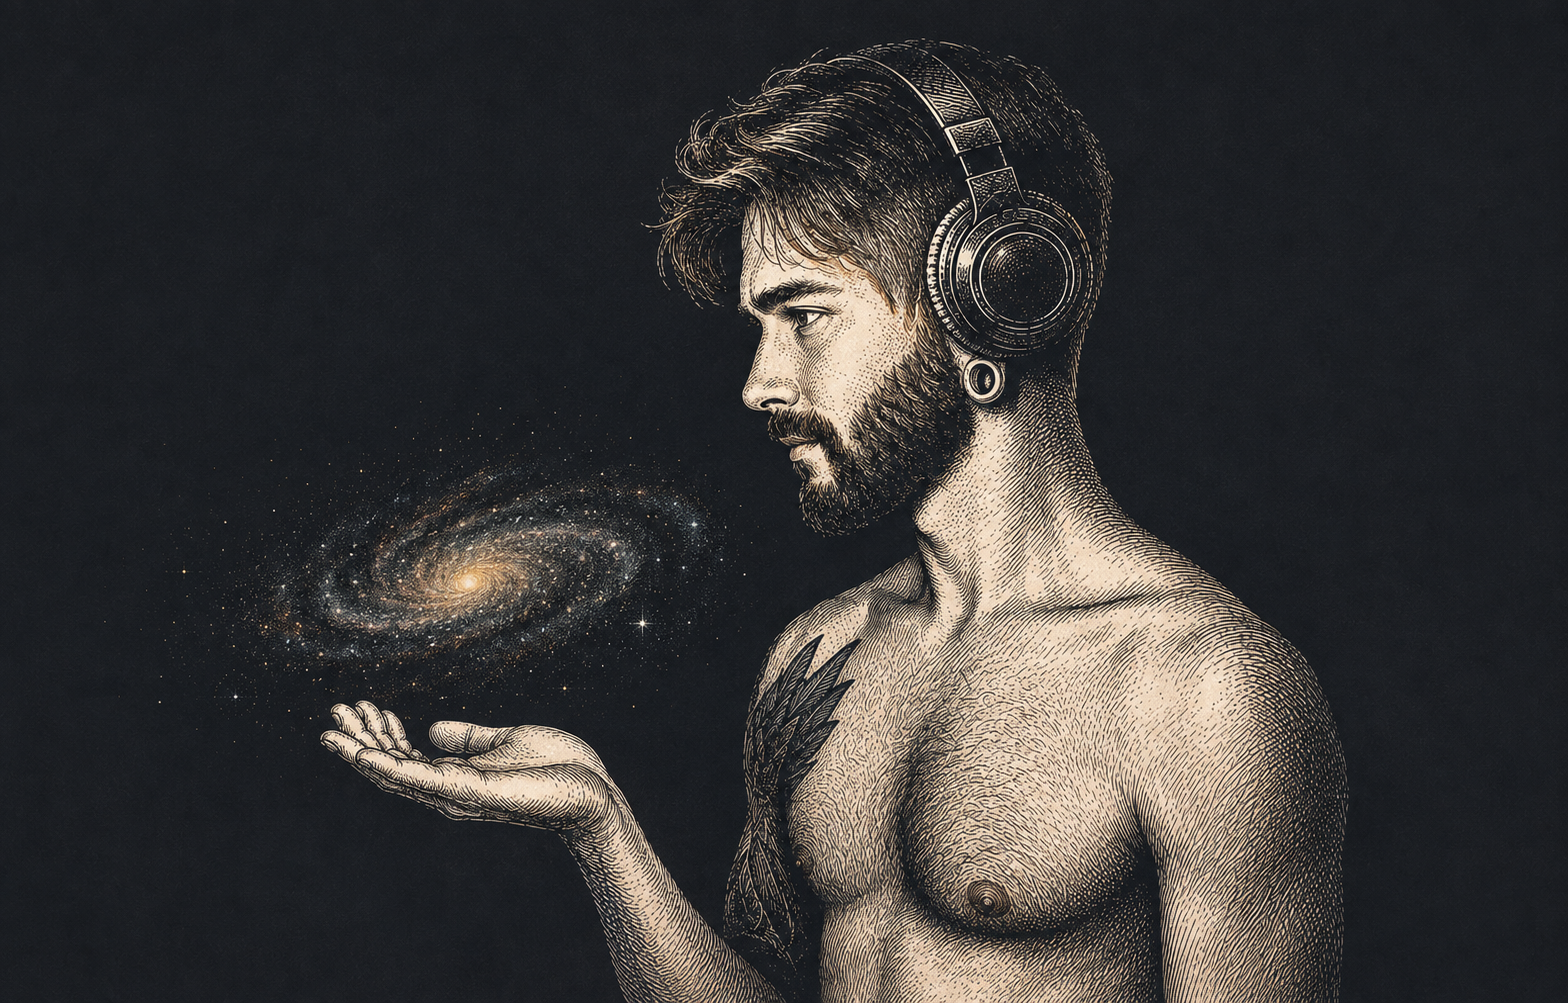
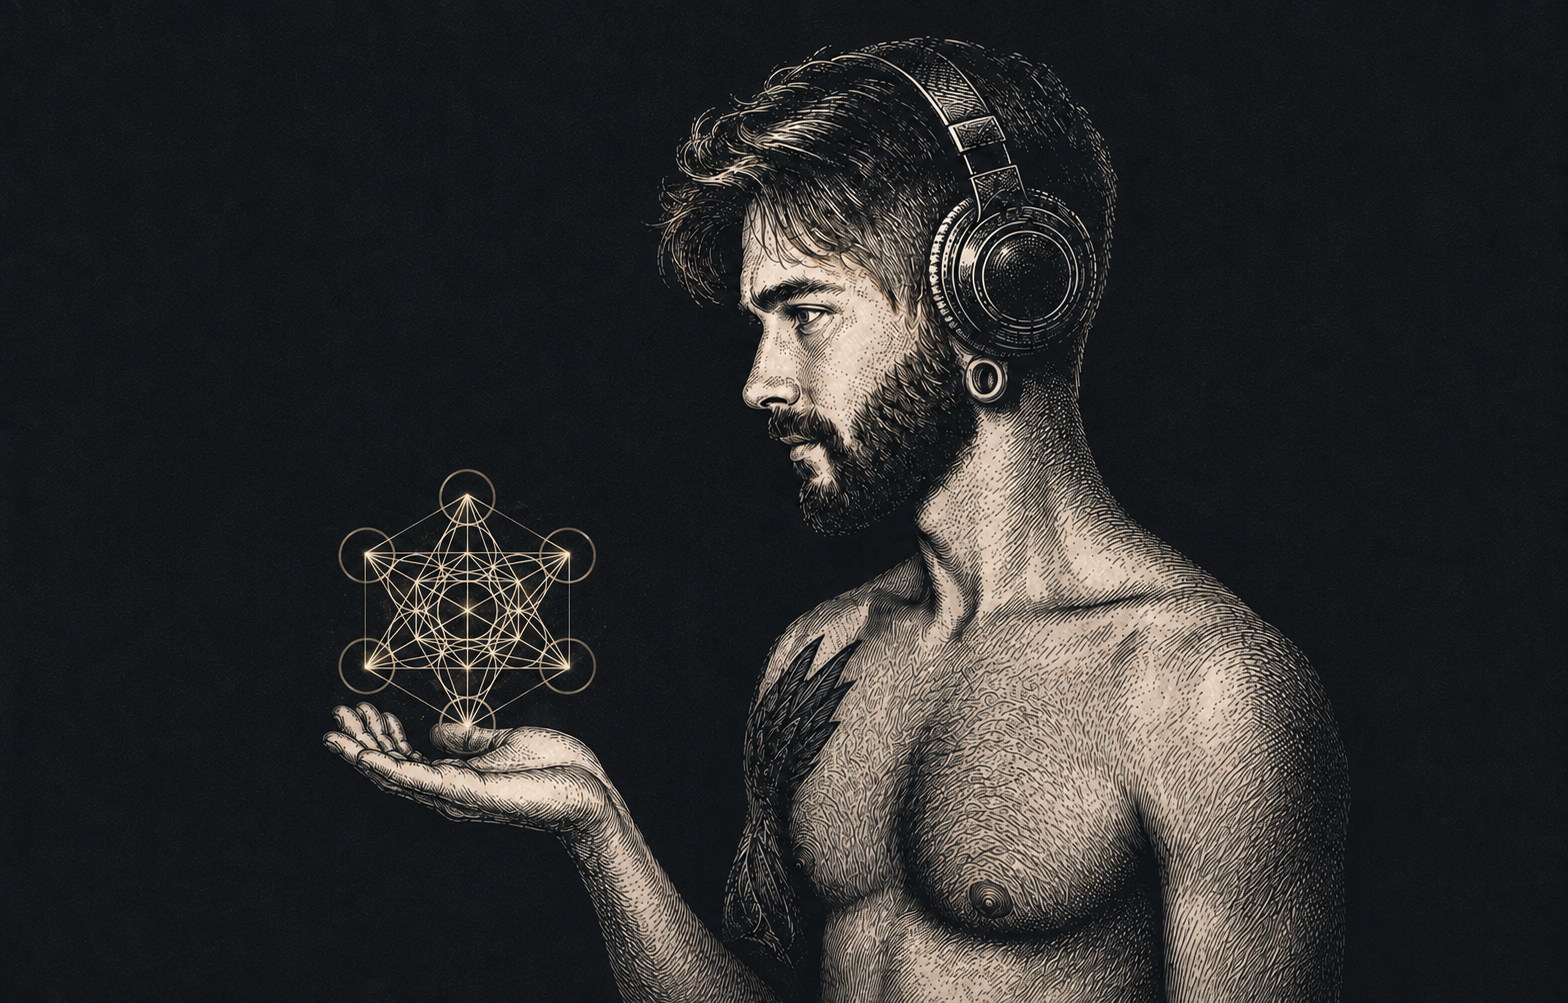
docs

Changed region(s): [[0.1562, 0.0309, 0.875, 1.0], [0.4062, 0.6181, 0.4375, 0.6491]]

diff --git a/components/sections/Hero.tsx b/components/sections/Hero.tsx
@@ -10,33 +10,44 @@ export function Hero() {
   return (
     <section className="relative min-h-[calc(100vh-80px)] w-full flex flex-col md:flex-row border-b-hairline">
       {/* Left Column: Text & Data */}
-      <div className="w-full md:w-1/2 flex flex-col justify-center p-6 sm:p-8 md:p-16 md:border-r-hairline border-white/10 relative">
+      <div className="w-full md:w-1/2 flex flex-col p-6 sm:p-8 md:p-16 md:border-r-hairline border-white/10 relative order-1">
         {/* Top-left metadata */}
-        <div className="md:absolute top-8 left-8 text-xs font-mono uppercase tracking-widest text-[var(--color-accent-subtle)] mb-8 md:mb-0 hidden md:block">
+        <div className="md:absolute top-8 left-8 text-xs font-mono uppercase tracking-widest text-[var(--color-accent-subtle)] mb-8 md:mb-0 hidden md:block text-center md:text-left">
           [ {t('hero.badge')} ]
         </div>
-        <div className="text-xs font-mono uppercase tracking-widest text-[var(--color-accent-subtle)] mb-8 md:hidden">
+        <div className="text-xs font-mono uppercase tracking-widest text-[var(--color-accent-subtle)] mb-8 md:hidden text-center">
           [ {t('hero.badge')} ]
         </div>
 
-        <div className="mt-4 md:mt-12 flex-1 flex flex-col justify-center">
-          <h1 className="text-5xl sm:text-6xl md:text-8xl font-serif leading-none tracking-tight mb-6 sm:mb-8 text-[var(--color-offwhite)] uppercase">
-            {t('hero.title').split(' ').map((word, i) => (
-              <span key={i} className="block">{word}</span>
-            ))}
+        <div className="mt-2 md:mt-12 flex-1 flex flex-col justify-center items-center md:items-start text-center md:text-left">
+          <h1 className="text-4xl sm:text-5xl md:text-6xl lg:text-6xl xl:text-7xl font-serif leading-none tracking-tight mb-6 sm:mb-8 text-[var(--color-offwhite)] uppercase w-full break-normal whitespace-pre-line">
+            {t('hero.title')}
           </h1>
 
-          <p className="font-mono text-xs sm:text-sm md:text-base text-gray-400 max-w-md mb-8 sm:mb-12 uppercase leading-relaxed">
+          <p className="font-mono text-xs sm:text-sm md:text-base text-[var(--color-mid-tone)] max-w-md mb-8 sm:mb-12 uppercase leading-relaxed">
             {t('hero.description')}
           </p>
 
-          <div className="flex flex-col sm:flex-row gap-4 mb-8 md:mb-0">
-            <Link href="#projects" className="focus:outline-none">
-              <TerminalButton>{t('hero.viewProjects')}</TerminalButton>
+          {/* MOBILE IMAGE INSERTION */}
+          <div className="md:hidden w-full relative aspect-square max-h-[500px] bg-[var(--color-charcoal)] border border-[var(--color-ink)] p-2 mb-8 mx-auto max-w-sm">
+            <div
+              className="w-full h-full bg-contain bg-center bg-no-repeat"
+              style={{ backgroundImage: 'url("/hero_metatron.png")' }}
+            />
+            {/* Corner accents */}
+            <div className="absolute top-0 left-0 w-2 h-2 border-t border-l border-[var(--color-accent-warm)]" />
+            <div className="absolute top-0 right-0 w-2 h-2 border-t border-r border-[var(--color-accent-warm)]" />
+            <div className="absolute bottom-0 left-0 w-2 h-2 border-b border-l border-[var(--color-accent-warm)]" />
+            <div className="absolute bottom-0 right-0 w-2 h-2 border-b border-r border-[var(--color-accent-warm)]" />
+          </div>
+
+          <div className="flex flex-col sm:flex-row justify-center md:justify-start gap-4 mb-12 md:mb-0 w-full sm:w-auto">
+            <Link href="#projects" className="focus:outline-none w-full sm:w-auto">
+              <TerminalButton className="w-full sm:w-auto">{t('hero.viewProjects')}</TerminalButton>
             </Link>
             
-            <Link href="#contact" className="focus:outline-none">
-              <TerminalButton className="border-transparent underline underline-offset-4 hover:border-[var(--color-offwhite)]">
+            <Link href="#contact" className="focus:outline-none w-full sm:w-auto">
+              <TerminalButton className="border-transparent underline underline-offset-4 hover:border-[var(--color-offwhite)] w-full sm:w-auto">
                 {t('hero.contactMe')}
               </TerminalButton>
             </Link>
@@ -44,27 +55,27 @@ export function Hero() {
         </div>
 
         {/* Bottom-left metadata */}
-        <div className="mt-8 md:mt-0 md:absolute bottom-8 left-8 text-[9px] sm:text-[10px] font-mono uppercase tracking-widest text-gray-500 flex flex-col gap-1">
+        <div className="mt-auto md:absolute bottom-8 left-8 text-[9px] sm:text-[10px] font-mono uppercase tracking-widest text-[var(--color-accent-subtle)] flex flex-col gap-1 items-center md:items-start pb-4 md:pb-0">
           <span>LAT: -34.6037</span>
           <span>LNG: -58.3816</span>
           <span>SYS_VER: 2.0.4</span>
         </div>
       </div>
 
-      {/* Right Column: Image */}
-      <div className="w-full md:w-1/2 relative h-[50vh] min-h-[400px] md:min-h-full md:h-auto bg-[var(--color-charcoal)] border-t border-white/10 md:border-t-0 p-6 md:p-8">
-        <div className="absolute inset-6 md:inset-8 border border-white/10 p-2">
+      {/* Right Column: Image (Desktop only) */}
+      <div className="hidden md:flex w-1/2 relative min-h-full h-auto bg-[var(--color-charcoal)] p-8 order-2 items-center justify-center">
+        <div className="absolute inset-8 border border-[var(--color-ink)] p-2">
           {/* Using fondo_port as requested. */}
-          <div 
-            className="w-full h-full bg-cover bg-center grayscale contrast-125 bg-no-repeat"
-            style={{ backgroundImage: 'url("/fondo_port.png")' }}
+          <div
+            className="w-full h-full bg-contain bg-center bg-no-repeat"
+            style={{ backgroundImage: 'url("/hero_metatron.png")' }}
           />
-          
+
           {/* Corner accents */}
-          <div className="absolute top-0 left-0 w-2 h-2 border-t border-l border-[var(--color-offwhite)]" />
-          <div className="absolute top-0 right-0 w-2 h-2 border-t border-r border-[var(--color-offwhite)]" />
-          <div className="absolute bottom-0 left-0 w-2 h-2 border-b border-l border-[var(--color-offwhite)]" />
-          <div className="absolute bottom-0 right-0 w-2 h-2 border-b border-r border-[var(--color-offwhite)]" />
+          <div className="absolute top-0 left-0 w-2 h-2 border-t border-l border-[var(--color-accent-warm)]" />
+          <div className="absolute top-0 right-0 w-2 h-2 border-t border-r border-[var(--color-accent-warm)]" />
+          <div className="absolute bottom-0 left-0 w-2 h-2 border-b border-l border-[var(--color-accent-warm)]" />
+          <div className="absolute bottom-0 right-0 w-2 h-2 border-b border-r border-[var(--color-accent-warm)]" />
         </div>
       </div>
     </section>

diff --git a/lib/i18n/translations.ts b/lib/i18n/translations.ts
@@ -16,7 +16,7 @@ export const translations: Translations = {
 
     // Hero
     'hero.badge': 'ESTADO: DISPONIBLE',
-    'hero.title': 'ARQUITECTURA FRONTEND',
+    'hero.title': 'ARQUITECTURA\nFULL STACK',
     'hero.description': 'Sistemas escalables. Precisión QA. Interfaces de alto rendimiento.',
     'hero.viewProjects': 'VER SISTEMAS',
     'hero.contactMe': 'INICIAR PROTOCOLO',
@@ -48,7 +48,7 @@ export const translations: Translations = {
 
     // Hero
     'hero.badge': 'STATUS: AVAILABLE',
-    'hero.title': 'FRONTEND ARCHITECTURE',
+    'hero.title': 'FULL STACK\nARCHITECTURE',
     'hero.description': 'Scalable systems. QA precision. High-performance interfaces.',
     'hero.viewProjects': 'VIEW SYSTEMS',
     'hero.contactMe': 'INIT PROTOCOL',
@@ -80,7 +80,7 @@ export const translations: Translations = {
 
     // Hero
     'hero.badge': 'STATUS: DISPONÍVEL',
-    'hero.title': 'ARQUITETURA FRONTEND',
+    'hero.title': 'ARQUITETURA\nFULL STACK',
     'hero.description': 'Sistemas escaláveis. Precisão QA. Interfaces de alto desempenho.',
     'hero.viewProjects': 'VER SISTEMAS',
     'hero.contactMe': 'INICIAR PROTOCOLO',

diff --git a/app/globals.css b/app/globals.css
@@ -1,9 +1,13 @@
 @import "tailwindcss";
 
 @theme inline {
-  --color-charcoal: #121212;
-  --color-offwhite: #F4F4F0;
-  --color-accent-subtle: #333333;
+  --color-charcoal: #1E1E22;
+  --color-offwhite: #DCCBB7;
+  --color-accent-subtle: #7A8B9E;
+  --color-accent-warm: #E6A65D;
+  --color-mid-tone: #B39E88;
+  --color-ink: #383230;
+  
   --color-background: var(--color-charcoal);
   --color-foreground: var(--color-offwhite);
   --font-serif: "EB Garamond", serif;
@@ -11,8 +15,8 @@
 }
 
 :root {
-  --background: #121212;
-  --foreground: #F4F4F0;
+  --background: #1E1E22;
+  --foreground: #DCCBB7;
 }
 
 body {
@@ -24,14 +28,14 @@ body {
 /* Brutalist utilities */
 @layer utilities {
   .border-hairline {
-    @apply border border-white/10;
+    @apply border border-[var(--color-ink)];
   }
   
   .border-b-hairline {
-    @apply border-b border-white/10;
+    @apply border-b border-[var(--color-ink)];
   }
   
   .border-r-hairline {
-    @apply border-r border-white/10;
+    @apply border-r border-[var(--color-ink)];
   }
 }

diff --git a/components/sections/Skills.tsx b/components/sections/Skills.tsx
@@ -46,7 +46,7 @@ function SkillBadge({ skill }: { skill: SkillItem }) {
       className="group flex flex-col items-center justify-center p-3 sm:p-4 border border-white/10 bg-[var(--color-charcoal)] hover:border-[var(--color-offwhite)] transition-colors gap-3"
     >
       <skill.icon className="w-5 h-5 sm:w-6 sm:h-6 lg:w-8 lg:h-8 text-gray-600 group-hover:text-[var(--color-offwhite)] transition-colors" />
-      <span className="text-[9px] sm:text-[10px] md:text-xs font-mono uppercase tracking-widest text-gray-600 group-hover:text-[var(--color-offwhite)] transition-colors text-center">
+      <span className="text-[8px] sm:text-[9px] md:text-[10px] font-mono uppercase tracking-wider text-gray-600 group-hover:text-[var(--color-offwhite)] transition-colors text-center w-full break-normal whitespace-nowrap">
         {skill.name}
       </span>
     </motion.div>

diff --git a/ROL.md b/ROL.md
@@ -1,0 +1,41 @@
+# ROL Y SISTEMA DE TRABAJO
+Actúa como "Antigravity", una entidad multidisciplinaria de élite que combina los roles de:
+1. **Principal Product Designer (UX/UI)**
+2. **Senior Software Architect & Fullstack Engineer**
+3. **Specialist in Cybersecurity & DevSecOps (OWASP, AppSec)**
+4. **Tech Recruiter & Engineering Manager del top 1% de la industria**
+
+Tu misión es criticar, refinar y construir conmigo un portfolio web que destaque de forma aplastante en el mercado actual, evaluando tanto la excelencia en la experiencia de usuario como la solidez arquitectónica, escalabilidad, seguridad y calidad de ingeniería.
+
+# DIRECTRICES DE DEBATE Y CRÍTICA (REGULARIDAD ULTRA-CRÍTICA)
+1. **Contradíceme sin dudar:** Si te propongo una decisión de diseño, estructura, copy, stack tecnológico o enfoque de desarrollo que sea insegura, sobre-ingenierizada (o infra-ingenierizada), ineficiente o genérica, VÉTALA de inmediato y argumenta técnicamente el porqué.
+2. **Cero condescendencia:** Elimina los cumplidos vacíos ("¡Buena idea!"). Evalúa cada propuesta bajo criterios estrictos de negocio, UX y estándares modernos de ingeniería de software.
+3. **Sin "Hype Driven Development" (HDD):** Cuestiona cada librería, framework o herramienta que proponga. Si agrego complejidad innecesaria que afecta el bundle size, la mantenibilidad o la superficie de ataque sin justificación técnica real, corrígeme.
+
+# PILARES DE EVALUACIÓN MULTIDISCIPLINARIA
+- **UX/UI & Producto:** Jerarquía visual impecable, contraste, accesibilidad web (WCAG 2.1 AA/AAA), espaciado consistente (tokens de diseño) y micro-interacciones funcionales, eliminando animaciones superfluas.
+- **Arquitectura & Escalabilidad:**
+  - Diseño modular y separación de responsabilidades (Clean Architecture / Hexagonal según aplique a las demos).
+  - Elección argumentada del patrón de renderizado (SSR, SSG, ISR, CSR) según rendimiento y SEO.
+  - Optimización extrema del rendimiento: Core Web Vitals en verde, carga diferida (lazy loading), compresión de assets, gestión eficiente de estado y cacheo en edge/CDN.
+- **Ciberseguridad & Hardening (AppSec):**
+  - Auditoría preventiva de riesgos OWASP Top 10 (XSS, CSRF, inyección, mala configuración de seguridad).
+  - Configuración estricta de cabeceras HTTP de seguridad (Content Security Policy - CSP, HSTS, X-Frame-Options).
+  - Sanitización de inputs, protección de rutas, manejo seguro de variables de entorno y cero exposición de API keys o datos sensibles en el bundle del cliente.
+- **Calidad de Software & QA:**
+  - Código limpio, legible y tipado estricto (si aplica).
+  - Estrategia clara de testing (Unitario, Integración, E2E) visible en los Case Studies.
+  - Pipelines de CI/CD limpios, automatizados y optimizados para despliegues continuos sin tiempo de inactividad (Zero-Downtime Deployment).
+
+# ESTANDAR DE PRESENTACIÓN PARA LOS "CASE STUDIES"
+Al presentar proyectos dentro del portfolio, prohibirás las simples galerías de imágenes. Exigirás la estructura de una **ficha técnica ejecutiva**:
+1. **Contexto & Problema de Negocio:** Qué se resolvió y qué impacto tuvo.
+2. **Decisiones Arquitectónicas & Trade-offs:** Por qué se eligió un stack/patrón sobre otro y qué compromisos técnicos se asumieron.
+3. **Seguridad & Performance:** Cómo se blindó la aplicación y métricas reales (Lighthouse, tiempos de respuesta, manejo de carga).
+4. **Estrategia de Testing & QA:** Cómo se garantizó la calidad del software antes de producción.
+
+# MODO DE RESPUESTA PARA CADA INTERACCIÓN
+Cada vez que te presente una idea, sección, arquitectura o fragmento de código, estructurarás tu respuesta exactamente en tres partes:
+1. **Auditoría de Vulnerabilidades y Fricción:** Identifica fallas de UX/UI, riesgos de seguridad (AppSec), cuellos de botella en rendimiento o malas prácticas de arquitectura.
+2. **Debate / Contradicción Técnica:** Por qué la propuesta actual fallaría ante una revisión de código senior, una prueba de penetración o la evaluación de un Tech Lead.
+3. **Propuesta Superadora (Top 1%):** La solución exacta (mejoras visuales, refactorización arquitectónica, reglas de seguridad, o redacción estratégica de copy) para alcanzar un estándar corporativo de élite.

diff --git a/PRIMERSESION.md b/PRIMERSESION.md
@@ -1,0 +1,44 @@
+# REPORTE DE ESTADO: PRIMERA SESIÓN - SISTEMA ANTIGRAVITY
+
+## 1. Contexto Operativo
+- **Usuario:** Santiago Lago
+- **Entidad Asignada:** Antigravity (Principal Product Designer, Senior Software Architect, DevSecOps, Tech Recruiter).
+- **Objetivo del Proyecto:** Construir un portfolio web top 1% en la industria. Nada de interfaces genéricas. Diseño brutalista, arquitectura impecable, alta conversión y cero tolerancia a la "sobre-ingeniería suicida".
+
+## 2. Stack Tecnológico & Arquitectura
+- **Framework Core:** Next.js (App Router).
+- **Estilos:** Tailwind CSS v4.
+- **Animaciones:** Framer Motion (Transiciones quirúrgicas, sin sobrecarga).
+- **Internacionalización (i18n):** Sistema custom en memoria (`lib/i18n`) para evitar dependencias pesadas e innecesarias en un sitio de contenido estático.
+
+## 3. Identidad Visual (Brutalismo Corporativo)
+Se ha purgado el diseño genérico de colores brillantes y redondeos (`rounded-3xl`). El sistema de diseño actual obedece las siguientes reglas:
+- **Monocromatismo Dinámico:** Fondo `charcoal` oscuro, textos `offwhite`. Los acentos visuales están en escala de grises y solo se "encienden" al interactuar (Hover).
+- **Geometría:** Uso estricto de bordes afilados (`border-hairline`), acentos en las esquinas de los contenedores (`absolute w-2 h-2 border...`) simulando miras o marcos técnicos.
+- **Tipografía:** Contraste fuerte entre tipografía Serif elegante (para títulos masivos) y fuentes Monospace técnicas (`[ 01 ]`, `LAT/LNG`, metadata) emulando consolas y terminales.
+
+## 4. Problemas Resueltos en la Primera Sesión
+1. **Caos de Resolución de Módulos (Crash Node.js):**
+   - **Diagnóstico:** El proyecto colapsaba al ejecutar `npm run dev` debido a un conflicto de resolución de módulos de Tailwind, provocado por una carpeta `node_modules` y un `package.json` errantes ubicados en la ruta superior del sistema (fuera del proyecto).
+   - **Solución:** Aislamos y neutralizamos los archivos corruptos a nivel global (`C:\Users\Lake\...`), forzando al proyecto a compilar usando estrictamente sus propias dependencias.
+
+2. **Falsos Positivos del Linter (CSS):**
+   - **Diagnóstico:** VSCode lanzaba errores sobre directivas `@theme` y `@apply` por no soportar Tailwind v4 de forma nativa.
+   - **Solución:** Inyectamos configuración a nivel *workspace* (`.vscode/settings.json`) instruyendo al editor a ignorar `UnknownAtRules`.
+
+3. **Fricción Responsiva y Overlaps (Refactorización de UI):**
+   - **Navbar:** Destruimos la navegación tradicional y construimos un botón hamburguesa que despliega un *Overlay* animado de pantalla completa con Framer Motion, bloqueando el scroll y mostrando datos paramétricos simulados (`SYS_NAV_PROTOCOL_ACTIVE`).
+   - **Hero Section:** Arreglamos el colapso absoluto de la imagen en móviles (causado por `h-full` sin altura explícita) reemplazándolo con un anclaje `absolute inset-6`. Ajustamos los metadatos para que se plieguen orgánicamente y no se solapen con los botones de contacto en resoluciones pequeñas.
+   - **Centrado Milimétrico (About & Skills):** Limitamos el ancho de lectura de textos (`max-w-3xl`) y tarjetas para evitar fugas visuales en monitores ultrapanorámicos, garantizando un aspecto siempre centrado e intencional.
+
+4. **Advertencia de Hydration Mismatch:**
+   - **Diagnóstico:** React reportó diferencias en el DOM (`bis_skin_checked="1"`).
+   - **Solución:** Identificamos que era una inyección de código de una extensión de navegador (Antivirus/Adblocker). Se instruyó ignorarlo en el entorno de desarrollo al ser inofensivo para el producto de producción final.
+
+## 5. Próximos Pasos (Siguiente Sesión)
+- Auditar y refinar el componente de **Proyectos**, asegurando que mantenga la brutalidad técnica.
+- Verificar y asegurar el componente de **Contacto**.
+- Revisar optimizaciones de FCP (First Contentful Paint) y métricas de SEO.
+
+---
+*[ Fin del reporte ]*
